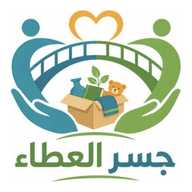
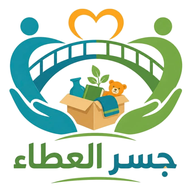
جسر العطاء: الشعار الرسمي بجودة عالية في الرأس والتعليمات و«حول البرنامج» والخصوصية والأيقونات
Claude-Session: https://claude.ai/code/session_01XyRoqsEvY3BTLF2toPsYXn

diff --git a/apps/jisr/index.html b/apps/jisr/index.html
@@ -187,6 +187,11 @@ textarea.field{min-height:96px;resize:vertical}
 .row{display:flex;flex-wrap:wrap;gap:8px;margin-top:12px}.row .btn{flex:1 1 150px}
 body.srv .demo-only,body:not(.srv) .srv-only{display:none!important}
 .pic .nopic{position:absolute;top:6px;inset-inline:6px;font-size:12px;text-align:center;color:var(--muted);background:#ffffffd9;border-radius:8px;padding:1px 4px}
+a.btn{color:inherit;text-decoration:none;text-align:center}
+.biglogo{display:block;width:180px;max-width:60%;height:auto;margin:4px auto 8px}
+.aboutprog{background:var(--paper,#fff);border:1px solid var(--line);border-radius:16px;padding:12px 16px;margin:10px 0;text-align:center}
+.aboutprog .biglogo{width:130px}
+.aboutprog p{text-align:right}
 .otp-demo{background:var(--sand);border-radius:12px;padding:8px 12px;font-size:15px;margin-top:10px}
 .list{display:grid;gap:12px;margin-top:10px}
 .mini{border:1px solid var(--line);border-radius:16px;padding:12px 14px;background:var(--bg)}
@@ -470,8 +475,16 @@ nav button[aria-current=page]{color:var(--green);font-weight:700}
   <!-- حول التطبيق -->
   <section class="view" id="v-about">
     <article class="panel about">
+      <img class="biglogo" src="logo.webp" alt="شعار جسر العطاء" width="200" height="202">
       <h2>تعليمات جسر العطاء</h2>
-      <button class="btn ghost wide soon" type="button" data-soon>حول البرنامج<span class="tag">قريبًا</span></button>
+      <button class="btn ghost wide" type="button" id="aboutProgBtn" aria-expanded="false" aria-controls="aboutProg">حول البرنامج</button>
+      <div class="aboutprog" id="aboutProg" hidden>
+        <img class="biglogo" src="logo.webp" alt="شعار جسر العطاء" width="150" height="152">
+        <h3>حول البرنامج</h3>
+        <p>جسر العطاء مبادرة خيرية تطوعية فردية لتدوير المقتنيات: ما زاد عن حاجتك يصل إلى من ينتفع به، دون مال ولا مقابل، برجاء الثواب.</p>
+        <p>تعمل المبادرة عبر مجموعتي واتساب «جسر العطاء الأول» و«جسر العطاء الثاني»، وعبر هذه المنصة.</p>
+        <p class="sample">تفاصيل المصمم والجهة القائمة على المبادرة تُضاف قريبًا.</p>
+      </div>
       <a class="btn ghost wide" href="privacy.html" style="margin-top:8px">سياسة الخصوصية</a>
       <div class="nomoney" role="note">
         <h3>لا مال في جسر العطاء</h3>
@@ -1084,7 +1097,7 @@ document.addEventListener('click', e => {
   if (wp || ws) { const it = st.items.find(i => i.code === (wp || ws).dataset[wp ? 'wapost' : 'washare']); if (!it) return;
     if (wp) copyText(waPost(it), 'نُسخ الإعلان، فالصقه في مجموعة واتساب'); else window.open('https://wa.me/?text=' + encodeURIComponent(waPost(it)), '_blank', 'noopener'); return; }
   const ck = e.target.closest('[data-clock]'); if (ck) { openClock(ck.dataset.clock); return; }
-  if (e.target.closest('[data-soon]')) toast('صفحة «حول البرنامج» قريبًا: عن المصمم والجهة القائمة على المبادرة');
+  const ab = e.target.closest('#aboutProgBtn'); if (ab) { const o = $('#aboutProg').hidden; $('#aboutProg').hidden = !o; ab.setAttribute('aria-expanded', o); }
   const c = e.target.closest('[data-copy]');
   if (c) { try { navigator.clipboard.writeText(c.dataset.copy).then(() => toast('نُسخ الكود'), () => toast('انسخه يدويًا: ' + c.dataset.copy)); } catch(err) { toast('انسخه يدويًا: ' + c.dataset.copy); } }
   const g = e.target.closest('[data-go]'); if (g) go(g.dataset.go);

diff --git a/apps/jisr/sw.js b/apps/jisr/sw.js
@@ -1,5 +1,5 @@
 const CACHE = 'jisr-alataa-v10';
-const FILES = ['./', './index.html', './config.js', './privacy.html', './logo-96.png', './hero.jpg', './manifest.json', './icon-192.png', './icon-512.png'];
+const FILES = ['./', './index.html', './config.js', './privacy.html', './logo-96.png', './logo.webp', './hero.jpg', './manifest.json', './icon-192.png', './icon-512.png'];
 self.addEventListener('install', e => e.waitUntil(caches.open(CACHE).then(c => c.addAll(FILES)).then(() => self.skipWaiting())));
 self.addEventListener('activate', e => e.waitUntil(caches.keys().then(ks => Promise.all(ks.filter(k => k !== CACHE).map(k => caches.delete(k)))).then(() => self.clients.claim())));
 /* الشبكة أولًا: يظهر آخر تحديث دائمًا، والنسخة المحفوظة تُستعمل فقط حين ينقطع الإنترنت */

diff --git a/apps/jisr/privacy.html b/apps/jisr/privacy.html
@@ -27,6 +27,7 @@ a{color:var(--green)}
 </head>
 <body>
 <main>
+  <img src="logo.webp" alt="شعار جسر العطاء" width="160" height="162" style="display:block;margin:0 auto;width:160px;height:auto">
   <h1>سياسة الخصوصية</h1>
   <p class="sub">منصة جسر العطاء · آخر تحديث: نوفمبر 2026</p>
 
